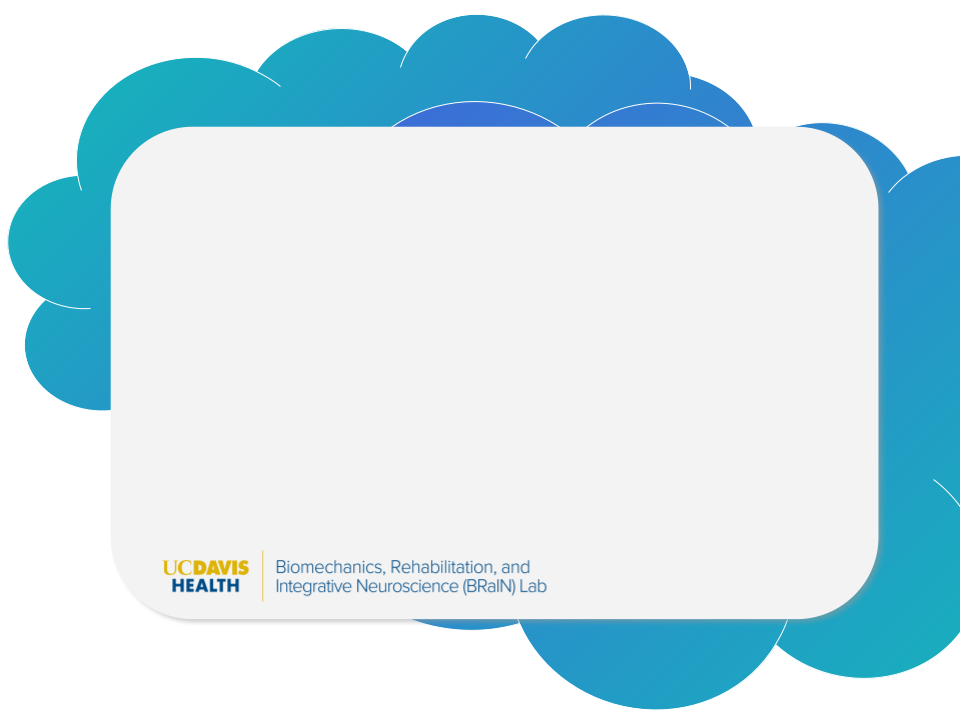
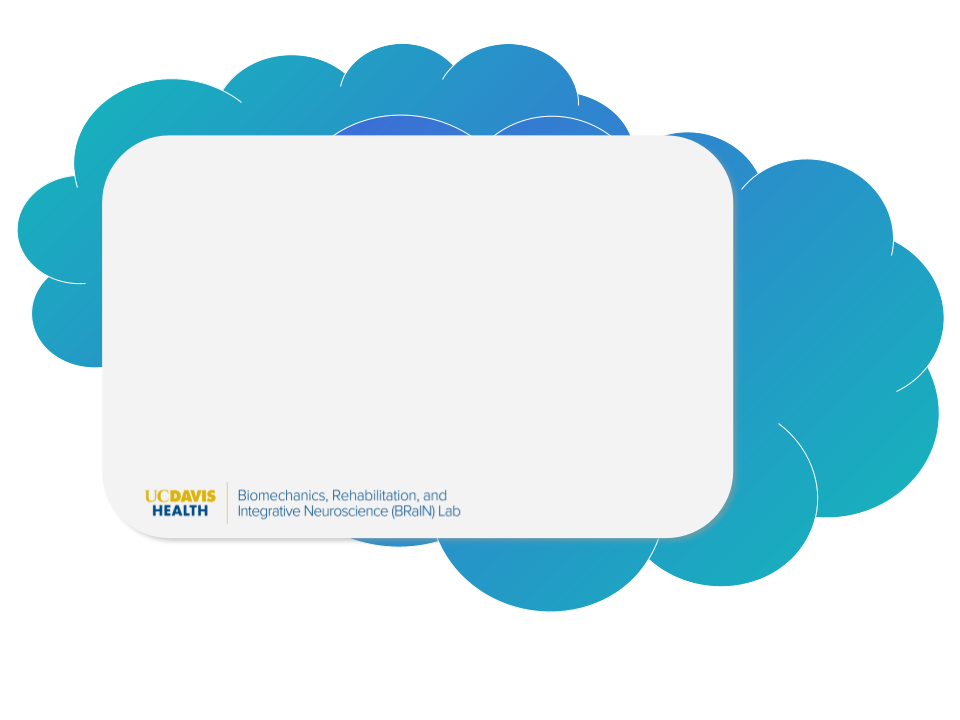
sign in page

Changed region(s): [[0.0, 0.0, 1.0, 1.0], [0.0938, 0.1222, 0.125, 0.1528]]

diff --git a/docs/index.html b/docs/index.html
@@ -6,51 +6,24 @@
       <link rel="stylesheet" href="https://cdn.jsdelivr.net/npm/@fortawesome/fontawesome-free@6.2.1/css/fontawesome.min.css">
        <link rel="stylesheet" href="./aggieimpact_design/css/patientStyle.css">
       <link rel="stylesheet" href="./aggieimpact_design/css/dataStyle.css">
+      <link rel="stylesheet" href="./aggieimpact_design/css/style.css">
       
       <script type="module" src="firebase.js"></script>
-      <title>Grip Laterality</title>
+      <title>BRaINlab Grip Symmetry Measurement</title>
    </head> 
    <body> 
-     <section class="banner_main">
-        <h1> Grip Laterality Website </h1>
+     <div class="banner_main">
+      <h1>BRaINlab Grip Symmetry Measurement</h1>
         <!--sign in (firebase authentication)-->
-        <form id = "signInForm">
+      <form class="sign_in" id = "signInForm">
          <label for="email"><b>Email</b></label>
-         <input type="text" placeholder="Enter Email" id="email" required>
-
+         <input class="input" type="text" placeholder="Enter Email" id="email" required>
+         <br>
          <label for="password"><b>Password</b></label>
-         <input type="password" placeholder="Enter Password" id="password" required>
-
-         <button id="submit" type="submit">Login</button>
+         <input class="input" type="password" placeholder="Enter Password" id="password" required>
+         <br>
+         <button class="login" id="submit" type="submit">Login</button>
         </form>
-     </section>
-
-     
-      
-
-
-    
-    <!-- check for bluetooth capability here first, before showing sign in
-        if browser won't support bluetooth, then don't even let them use
-    -->
-
-     <script src="https://unpkg.com/@vernier/godirect/dist/godirect.min.umd.js"></script>
-     <!-- Javascript files-->
-     <!-- <script src="js/jquery.min.js"></script>
-     <script src="js/popper.min.js"></script>
-     <script src="js/bootstrap.bundle.min.js"></script>
-     <script src="js/jquery-3.0.0.min.js"></script>
-     
-     <script src="js/jquery.mCustomScrollbar.concat.min.js"></script>
-     <script src="js/custom.js"></script> -->
-     <script>
-        function openNav() {
-          document.getElementById("mySidepanel").style.width = "250px";
-        }
-        
-        function closeNav() {
-          document.getElementById("mySidepanel").style.width = "0";
-        }
-     </script>
+      </div>
    </body>
 </html>

diff --git a/docs/aggieimpact_design/css/style.css b/docs/aggieimpact_design/css/style.css
@@ -199,7 +199,7 @@ button {
      margin: 5px;
      padding: 5px;
      cursor: pointer;
-     background-color:#0f98f8;
+     background-color:#4164da;
      color: #fff;
      font-size: 17px;
      border-radius: 5px;
@@ -334,12 +334,51 @@ ul.conat_info li a:hover {
 /** banner section **/
 
 .banner_main {
-     background: url(../images/banner.png);
-     padding: 300px 0px 0px 0px;
-     background-size: auto 78%;
+     width: 100%;
+     background: url(../images/sign_in_banner.png);
+     padding: 0px;
+     background-size: auto 100%;
      background-repeat: no-repeat;
-     min-height: 1150px;
-     background-position: right top;
+     background-position: center top;
+     min-height: 1000px;
+}
+
+.banner_main h1 {
+     color: #000;
+     text-align: left;
+     font-weight: 100px;
+     font-size: xx-large;
+     padding-top: 250px;
+     padding-left: 200px;
+}
+
+.sign_in {
+     width: 100%;
+     text-align: left;
+     padding-left: 300px;
+     padding-top: 50px;
+}
+
+.sign_in label {
+     font-size: large;
+     color: #000;
+     padding: 15px;
+}
+
+.sign_in .input {
+     font-size: large;
+     color:#000;
+     padding: 15px;
+     margin-top: 5px;
+     margin-bottom: 5px;
+}
+
+.sign_in .login {
+     width: 300px;
+     height: 50px;
+     text-align: center;
+     margin-top: 15px;
+     font-size: larger;
 }
 
 .text-bg {
